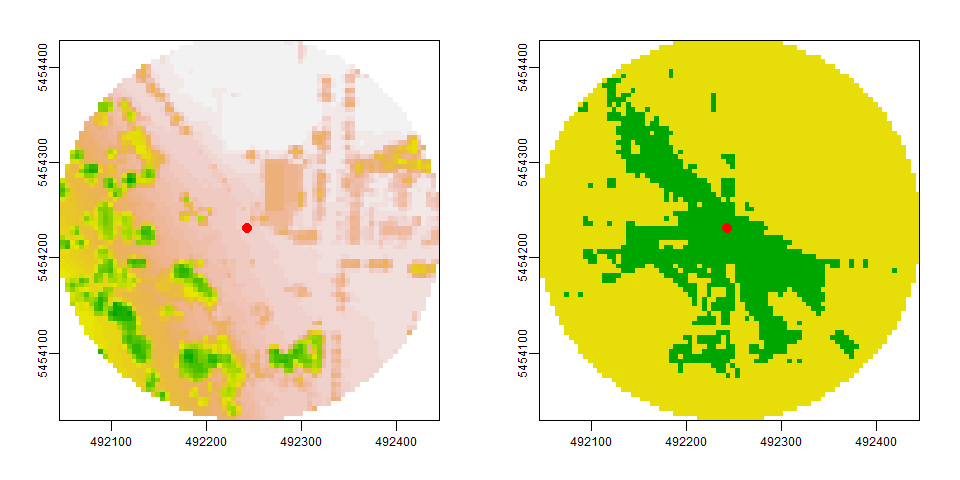
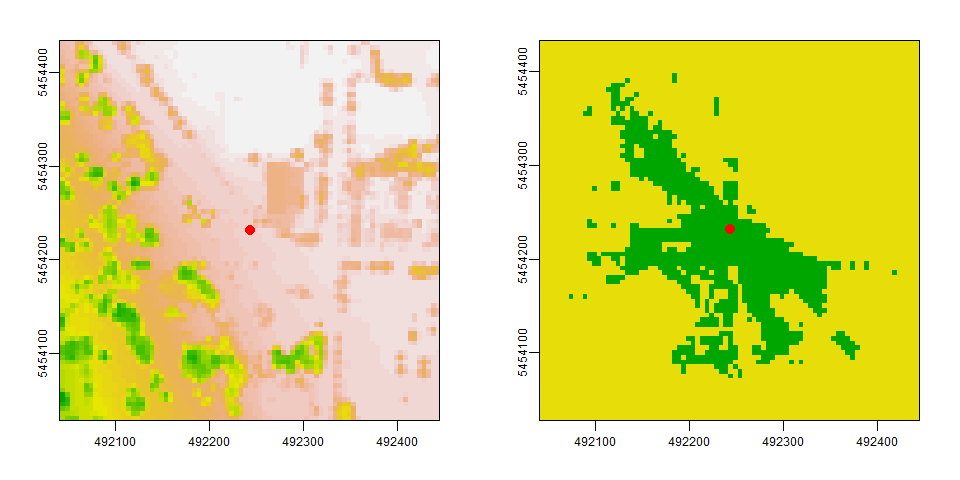
Methods: Viewshed

diff --git a/README.md b/README.md
@@ -61,11 +61,10 @@ Huck](https://github.com/jonnyhuck/green-visibility-index)
 
 ### Viewshed
 
-The `viewshed` function computes the viewshed of a single point on a
-Digital Surface Model (DSM) raster. A buffer is applied on the observer
-position, and for every point on the perimeter a Line of Sight (LoS) is
-being calculated. Visibility along every point on the LoS is computed
-using a C++ implementation of Bresenham’s line algorithm \[[Bresenham
+The `viewshed` function computes a binary viewshed of a single point on
+a Digital Surface Model (DSM) raster. A radial buffer is applied on the
+observer position, and visibility is beeing calculated usig a C++
+implementation of Bresenham’s line algorithm \[[Bresenham
 1965](https://doi.org/10.1147/sj.41.0025), [Bresenham
 1977](https://doi.org/10.1145/359423.359432)\] and simple geometry. The
 result of the `viewshed` function is a radial raster where 0 =
@@ -79,10 +78,11 @@ between 0 and 1, where 0 = no green cells are visible, and 1 = all of
 the visible cells are green.
 
 Based on a viewshed and a binary greenspace raster, all visible points
-are classified as visible and not-visible. All values are summarized
-using a decay function, to account for the reducing visual prominence of
-an object in space with increasing distance from the observer. Currently
-two options are supported, a logistic and an exponential function.
+are classified as visible green and visible no-green. All values are
+summarized using a decay function, to account for the reducing visual
+prominence of an object in space with increasing distance from the
+observer. Currently two options are supported, a logistic and an
+exponential function.
 
 ![ \\begin{align\*} f(x) = \\cfrac{1}{1 + e^{b(x-m)}} && \\text{(logistic)}\\\\ f(x) = \\cfrac{1}{1 + (bx^{m})} && \\text{(exponential)} \\end{align\*} ](https://latex.codecogs.com/svg.latex?%20%5Cbegin%7Balign%2A%7D%20f%28x%29%20%3D%20%5Ccfrac%7B1%7D%7B1%20%2B%20e%5E%7Bb%28x-m%29%7D%7D%20%26%26%20%5Ctext%7B%28logistic%29%7D%5C%5C%20f%28x%29%20%3D%20%5Ccfrac%7B1%7D%7B1%20%2B%20%28bx%5E%7Bm%7D%29%7D%20%26%26%20%5Ctext%7B%28exponential%29%7D%20%5Cend%7Balign%2A%7D%20 " \begin{align*} f(x) = \cfrac{1}{1 + e^{b(x-m)}} && \text{(logistic)}\\ f(x) = \cfrac{1}{1 + (bx^{m})} && \text{(exponential)} \end{align*} ")
 
@@ -168,7 +168,7 @@ Calculate the viewshed for a 200 meters radius around the observers
 position at 1.7 meters height (eye level).
 
 ``` r
-library(GVI2)
+library(GVI)
 viewshed1 <- viewshed(observer = observer, dsm_rast = DSM, dtm_rast = DEM,
                       max_distance = 200, observer_height = 1.7, plot = TRUE)
 ```
